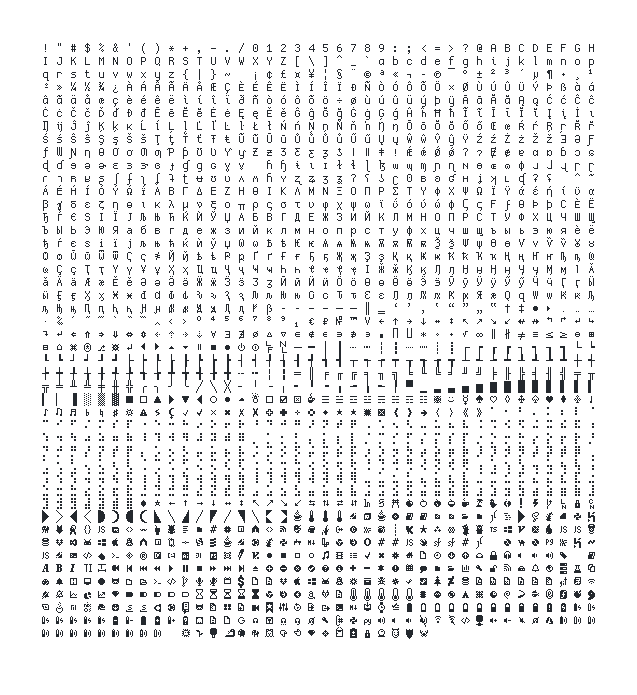
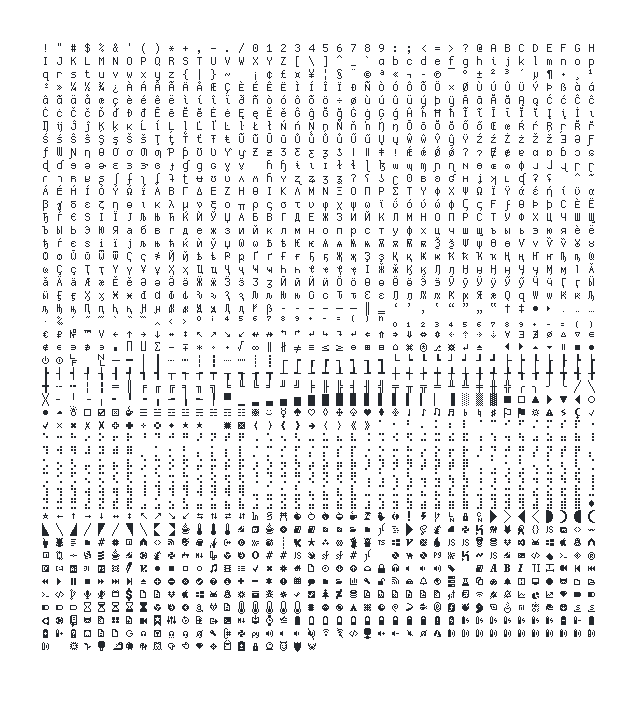
Update version and metadata

Changed region(s): [[0.0597, 0.0604, 0.9545, 0.9367], [0.6264, 0.9065, 0.6562, 0.9367]]

diff --git a/cozette_builder/imagegen.py b/cozette_builder/imagegen.py
@@ -190,8 +190,8 @@ def stitch_charmap(files: List[Path], target: Path):
     for im in images:
         new_im.paste(im, (0, y))
         y += im.height
-    # for p in files:
-    #     p.unlink()
+    for p in files:
+        p.unlink()
     new_im.save(target)
 
 

diff --git a/CHANGELOG.md b/CHANGELOG.md
@@ -9,6 +9,46 @@ The format is based on [Keep a Changelog], and this project adheres to
 
 Nothing!
 
+## [1.11.0]
+
+### Added
+
+- ⁱ (U+2071 SUPERSCRIPT LATIN SMALL LETTER I)
+- ⁺ (U+207A SUPERSCRIPT PLUS SIGN)
+- ⁻ (U+207B SUPERSCRIPT MINUS)
+- ⁼ (U+207C SUPERSCRIPT EQUALS SIGN)
+- ⁽ (U+207D SUPERSCRIPT LEFT PARENTHESIS)
+- ⁾ (U+207E SUPERSCRIPT RIGHT PARENTHESIS)
+- ⁿ (U+207F SUPERSCRIPT LATIN SMALL LETTER N)
+- ₀ (U+2080 SUBSCRIPT ZERO)
+- ₂ (U+2082 SUBSCRIPT TWO)
+- ₃ (U+2083 SUBSCRIPT THREE)
+- ₄ (U+2084 SUBSCRIPT FOUR)
+- ₅ (U+2085 SUBSCRIPT FIVE)
+- ₆ (U+2086 SUBSCRIPT SIX)
+- ₇ (U+2087 SUBSCRIPT SEVEN)
+- ₈ (U+2088 SUBSCRIPT EIGHT)
+- ₉ (U+2089 SUBSCRIPT NINE)
+- ₊ (U+208A SUBSCRIPT PLUS SIGN)
+- ₋ (U+208B SUBSCRIPT MINUS)
+- ₌ (U+208C SUBSCRIPT EQUALS SIGN)
+- ₍ (U+208D SUBSCRIPT LEFT PARENTHESIS)
+- ₎ (U+208E SUBSCRIPT RIGHT PARENTHESIS)
+- ∑ (U+2211 N-ARY SUMMATION)
+- − (U+2212 MINUS SIGN)
+- ∓ (U+2213 MINUS-OR-PLUS SIGN)
+- ⏏ (U+23CF EJECT SYMBOL)
+- ␍ (U+240D SYMBOL FOR CARRIAGE RETURN)
+- ⚐ (U+2690 WHITE FLAG)
+- ⚑ (U+2691 BLACK FLAG)
+- ✱ (U+2731 HEAVY ASTERISK)
+- ❬ (U+276C MEDIUM LEFT-POINTING ANGLE BRACKET ORNAMENT)
+- ❭ (U+276D MEDIUM RIGHT-POINTING ANGLE BRACKET ORNAMENT)
+
+### Changed
+
+- √ (U+221A SQUARE ROOT)
+
 ## [1.10.0]
 
 ### Added
@@ -755,7 +795,8 @@ Still broken on Windows.
 
 [Keep a Changelog]: https://keepachangelog.com/en/1.0.0/
 [Semantic Versioning]: https://semver.org/spec/v2.0.0.html
-[unreleased]: https://github.com/slavfox/Cozette/compare/v.1.8.3...HEAD
+[unreleased]: https://github.com/slavfox/Cozette/compare/v.1.11.0...HEAD
+[1.11.0]: https://github.com/slavfox/Cozette/compare/v.1.10.0...v.1.11.0
 [1.10.0]: https://github.com/slavfox/Cozette/compare/v.1.9.3...v.1.10.0
 [1.9.3]: https://github.com/slavfox/Cozette/compare/v.1.9.2...v.1.9.3
 [1.9.2]: https://github.com/slavfox/Cozette/compare/v.1.9.0...v.1.9.2

diff --git a/README.md b/README.md
@@ -198,7 +198,7 @@ Cozette is licensed [MIT] 💜
 
 Massive thanks to [ym1234] for helping me figure out how to make the font tables behave nicely.
 
-Additional thanks to [autumn] for contributing some characters!
+Additional thanks to [autumn] and [cpkio] for contributing characters!
 
 
 [Dina]: https://www.dcmembers.com/jibsen/download/61/
@@ -227,3 +227,4 @@ Additional thanks to [autumn] for contributing some characters!
 [MIT]: ./LICENSE
 [ym1234]: https://github.com/ym1234
 [autumn]: https://github.com/auctumnus
+[cpkio]: https://github.com/cpkio
